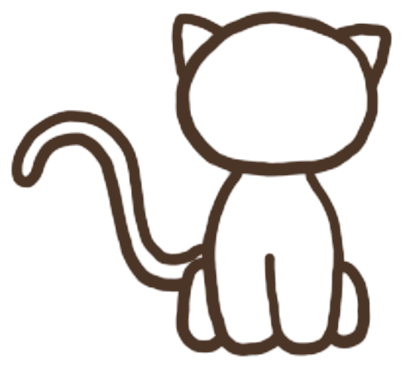
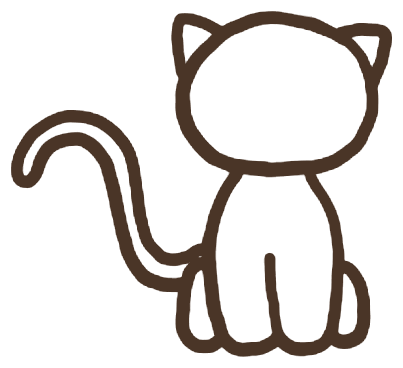
style(cats): solid outlines, and no pink in the portraits' ears
The line layers were cut from screenshots with a soft ramp, so the middle of a
thin line was only part-opaque and the fill showed through it as breaks. The
layers are regenerated with every line pixel darker than mid-grey fully solid
and only the outer fringe partial, so each stroke reads as one line.

The ear insides took a pink on every cat. It was never in the drawing: they take
the same colour as the ear tips, so the inner ear line only marks the shape.

diff --git a/lib/portrait.test.ts b/lib/portrait.test.ts
@@ -1,7 +1,6 @@
 import { describe, it, expect } from 'vitest'
 import {
   COAT_TONES,
-  EAR_PINK,
   PARTS,
   POSE_BY_ENERGY,
   POSES,
@@ -81,11 +80,9 @@ describe('poseFor', () => {
 })
 
 describe('portraitColours', () => {
-  it('a solid cat is the base tone all over, with pink ears', () => {
+  it('a solid cat is the base tone all over, ears included', () => {
     const c = portraitColours('Gray', 'Solid')
-    for (const part of PARTS) {
-      expect(c[part]).toBe(part === 'earInner' ? EAR_PINK : COAT_TONES.Gray.base)
-    }
+    for (const part of PARTS) expect(c[part]).toBe(COAT_TONES.Gray.base)
   })
 
   it('a tabby has pale underparts and dark tips', () => {
@@ -151,7 +148,7 @@ describe('portraitColours', () => {
       for (const pattern of PATTERNS) {
         const c = portraitColours(color, pattern)
         for (const part of PARTS) expect(c[part]).toMatch(/^#[0-9a-f]{6}$/)
-        expect(c.earInner).toBe(EAR_PINK)
+        expect(c.earInner).toBe(c.earTipLeft)
       }
     }
   })

diff --git a/lib/portrait.ts b/lib/portrait.ts
@@ -98,9 +98,6 @@ export const COAT_TONES: Record<CoatColor, CoatTones> = {
   Lilac: tones('#c4b2c8'),
 }
 
-/** The inside of the ears, the same on every cat: a touch of life. */
-export const EAR_PINK = '#f2a7a7'
-
 /** The white of a tuxedo front and a calico ground. Matches White's base. */
 const WHITE = COAT_TONES.White.base
 
@@ -204,7 +201,9 @@ export function portraitColours(color: CoatColor, pattern: CoatPattern): Record<
     default:
       colours = all(tones.base)
   }
-  colours.earInner = EAR_PINK
+  // The ear insides take whatever the ear tips got: the inner line marks the
+  // ear's shape, not a different colour. Heidi tried pink and didn't want it.
+  colours.earInner = colours.earTipLeft
   return colours
 }
 

diff --git a/CLAUDE.md b/CLAUDE.md
@@ -277,7 +277,7 @@ each part — Solid is base all over with no inner lines; Tabby pales the
 bib/belly/paws and darkens the tips; Tuxedo whites the front; Colorpoint is
 the light tone with the shade on ears, legs, paws and tail tip; Calico and
 Tortoiseshell patch in fixed orange (and black) regardless of coat colour.
-Ear insides are always `EAR_PINK`. Unknown colour → Cream, unknown pattern →
+Ear insides match the ear tips — no pink. Unknown colour → Cream, unknown pattern →
 Solid. It is a stand-in by colour, not a likeness.
 
 The layers live in `public/images/portraits/{pose}-{outline,inner,regions}.png`:
